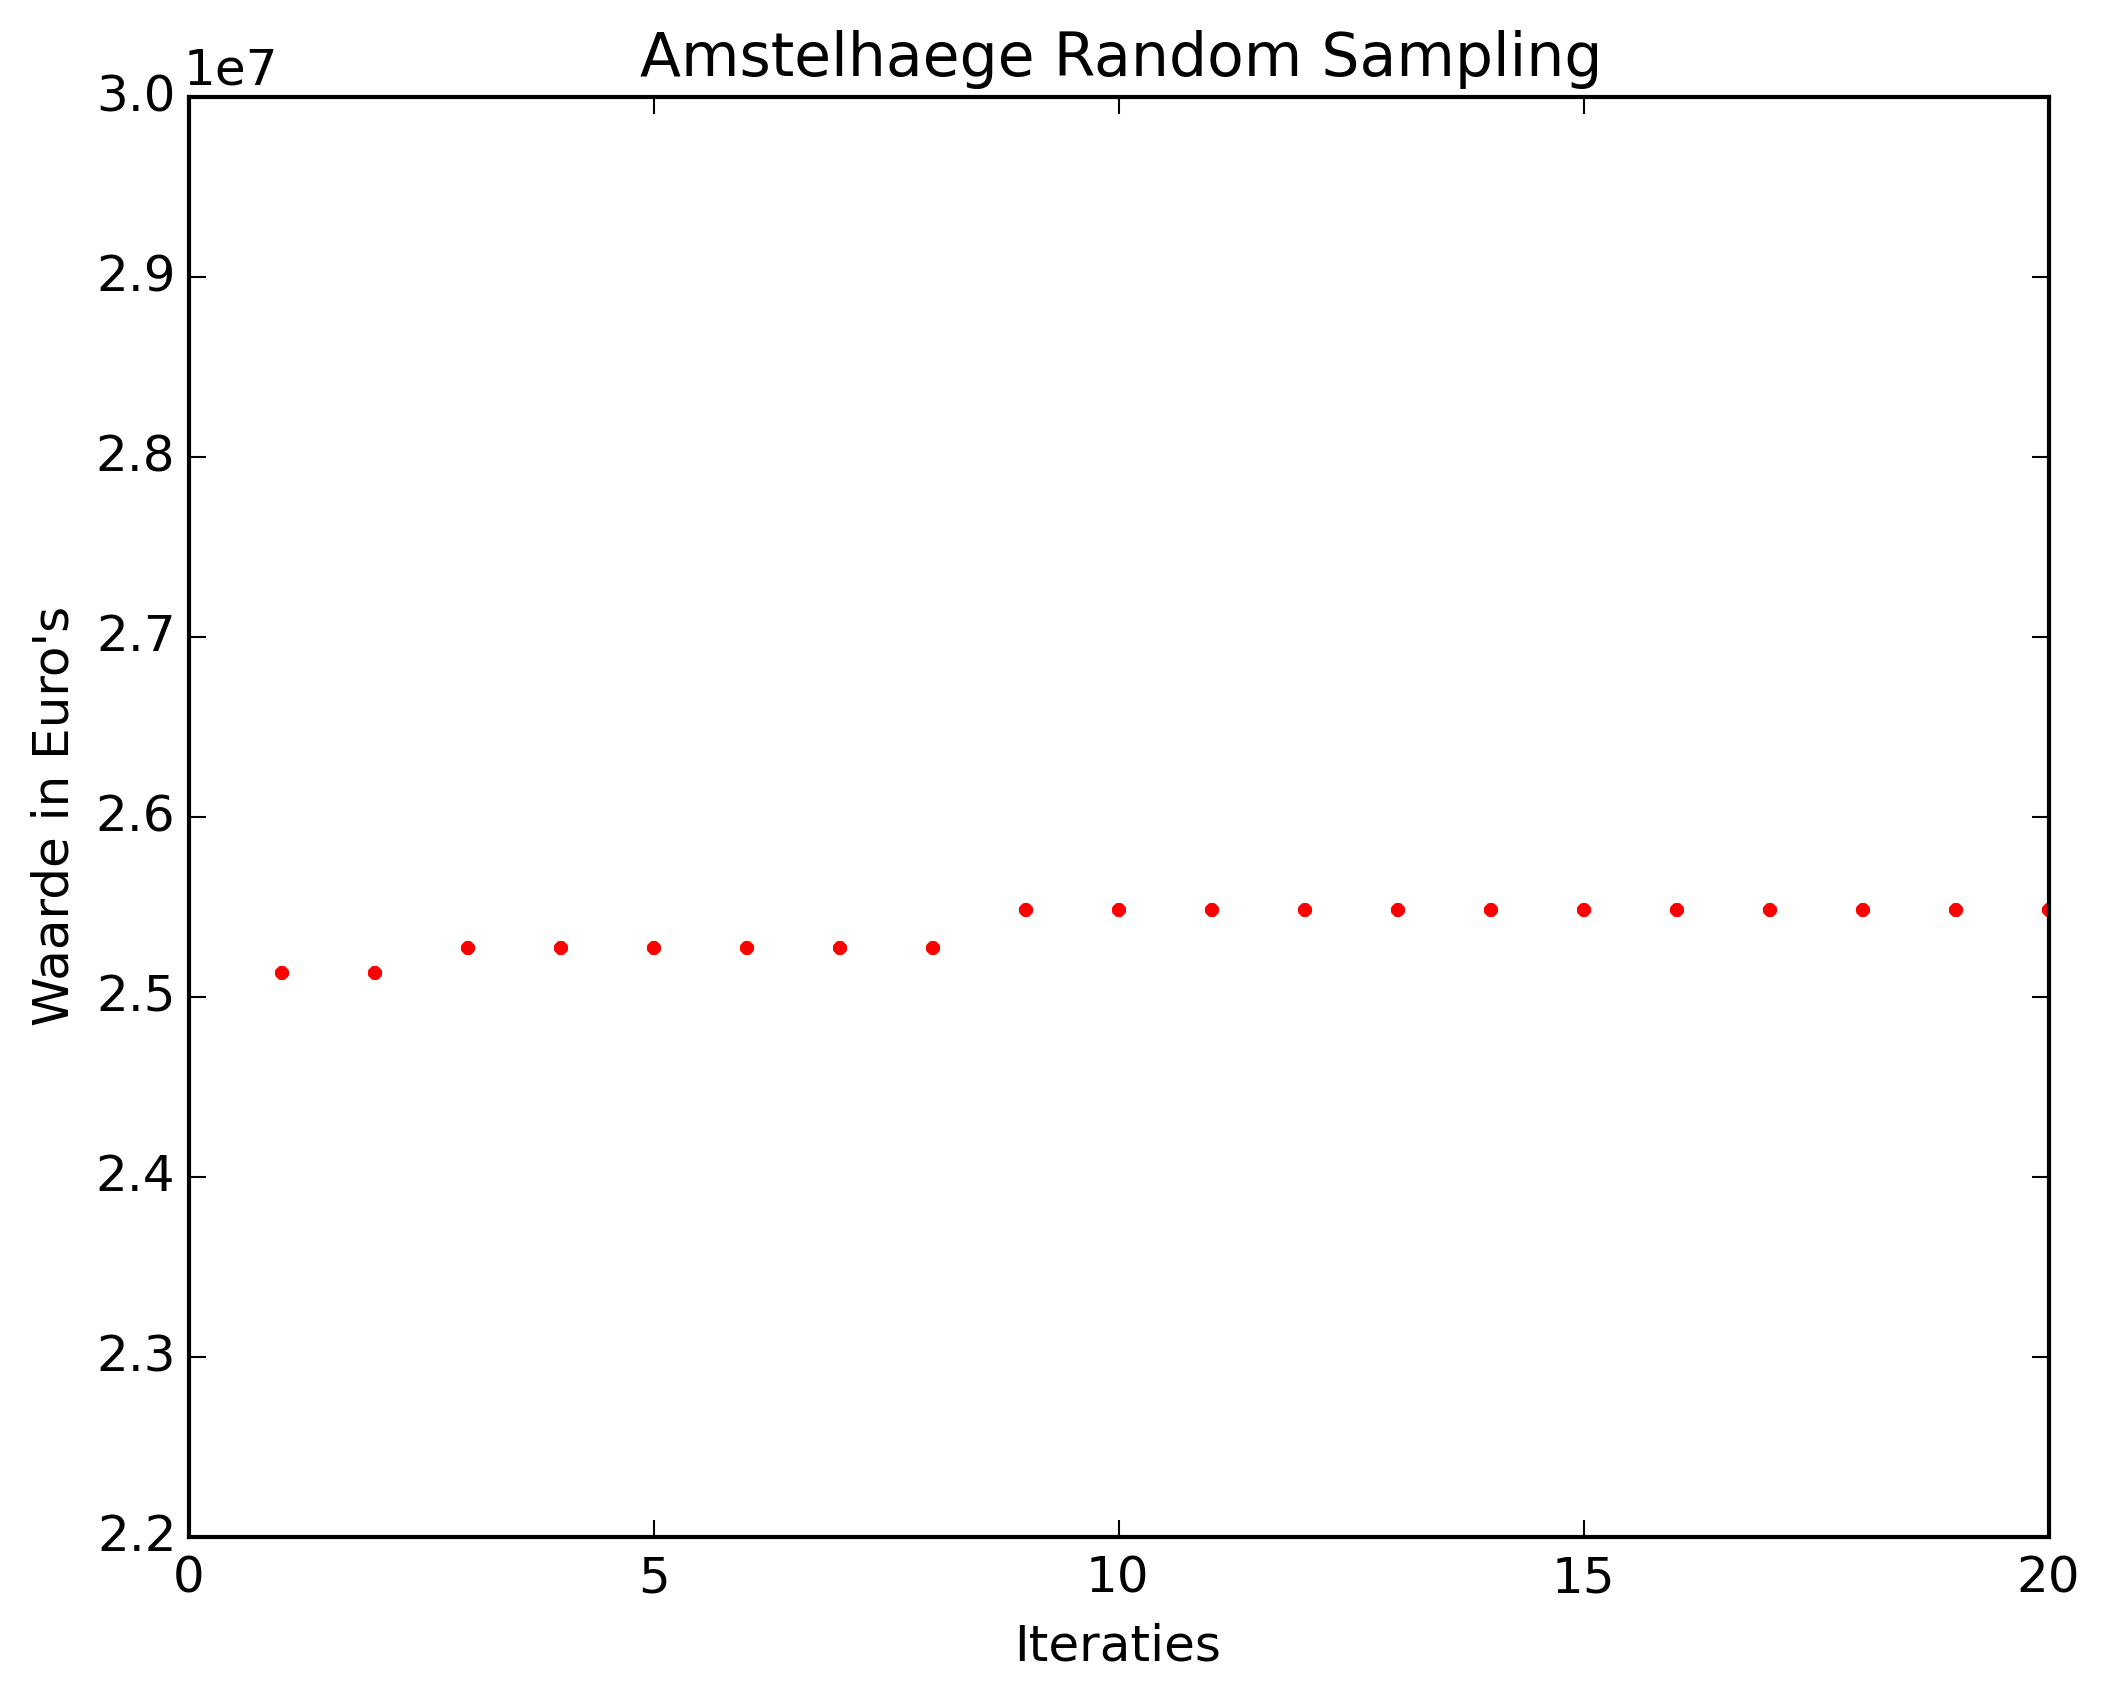
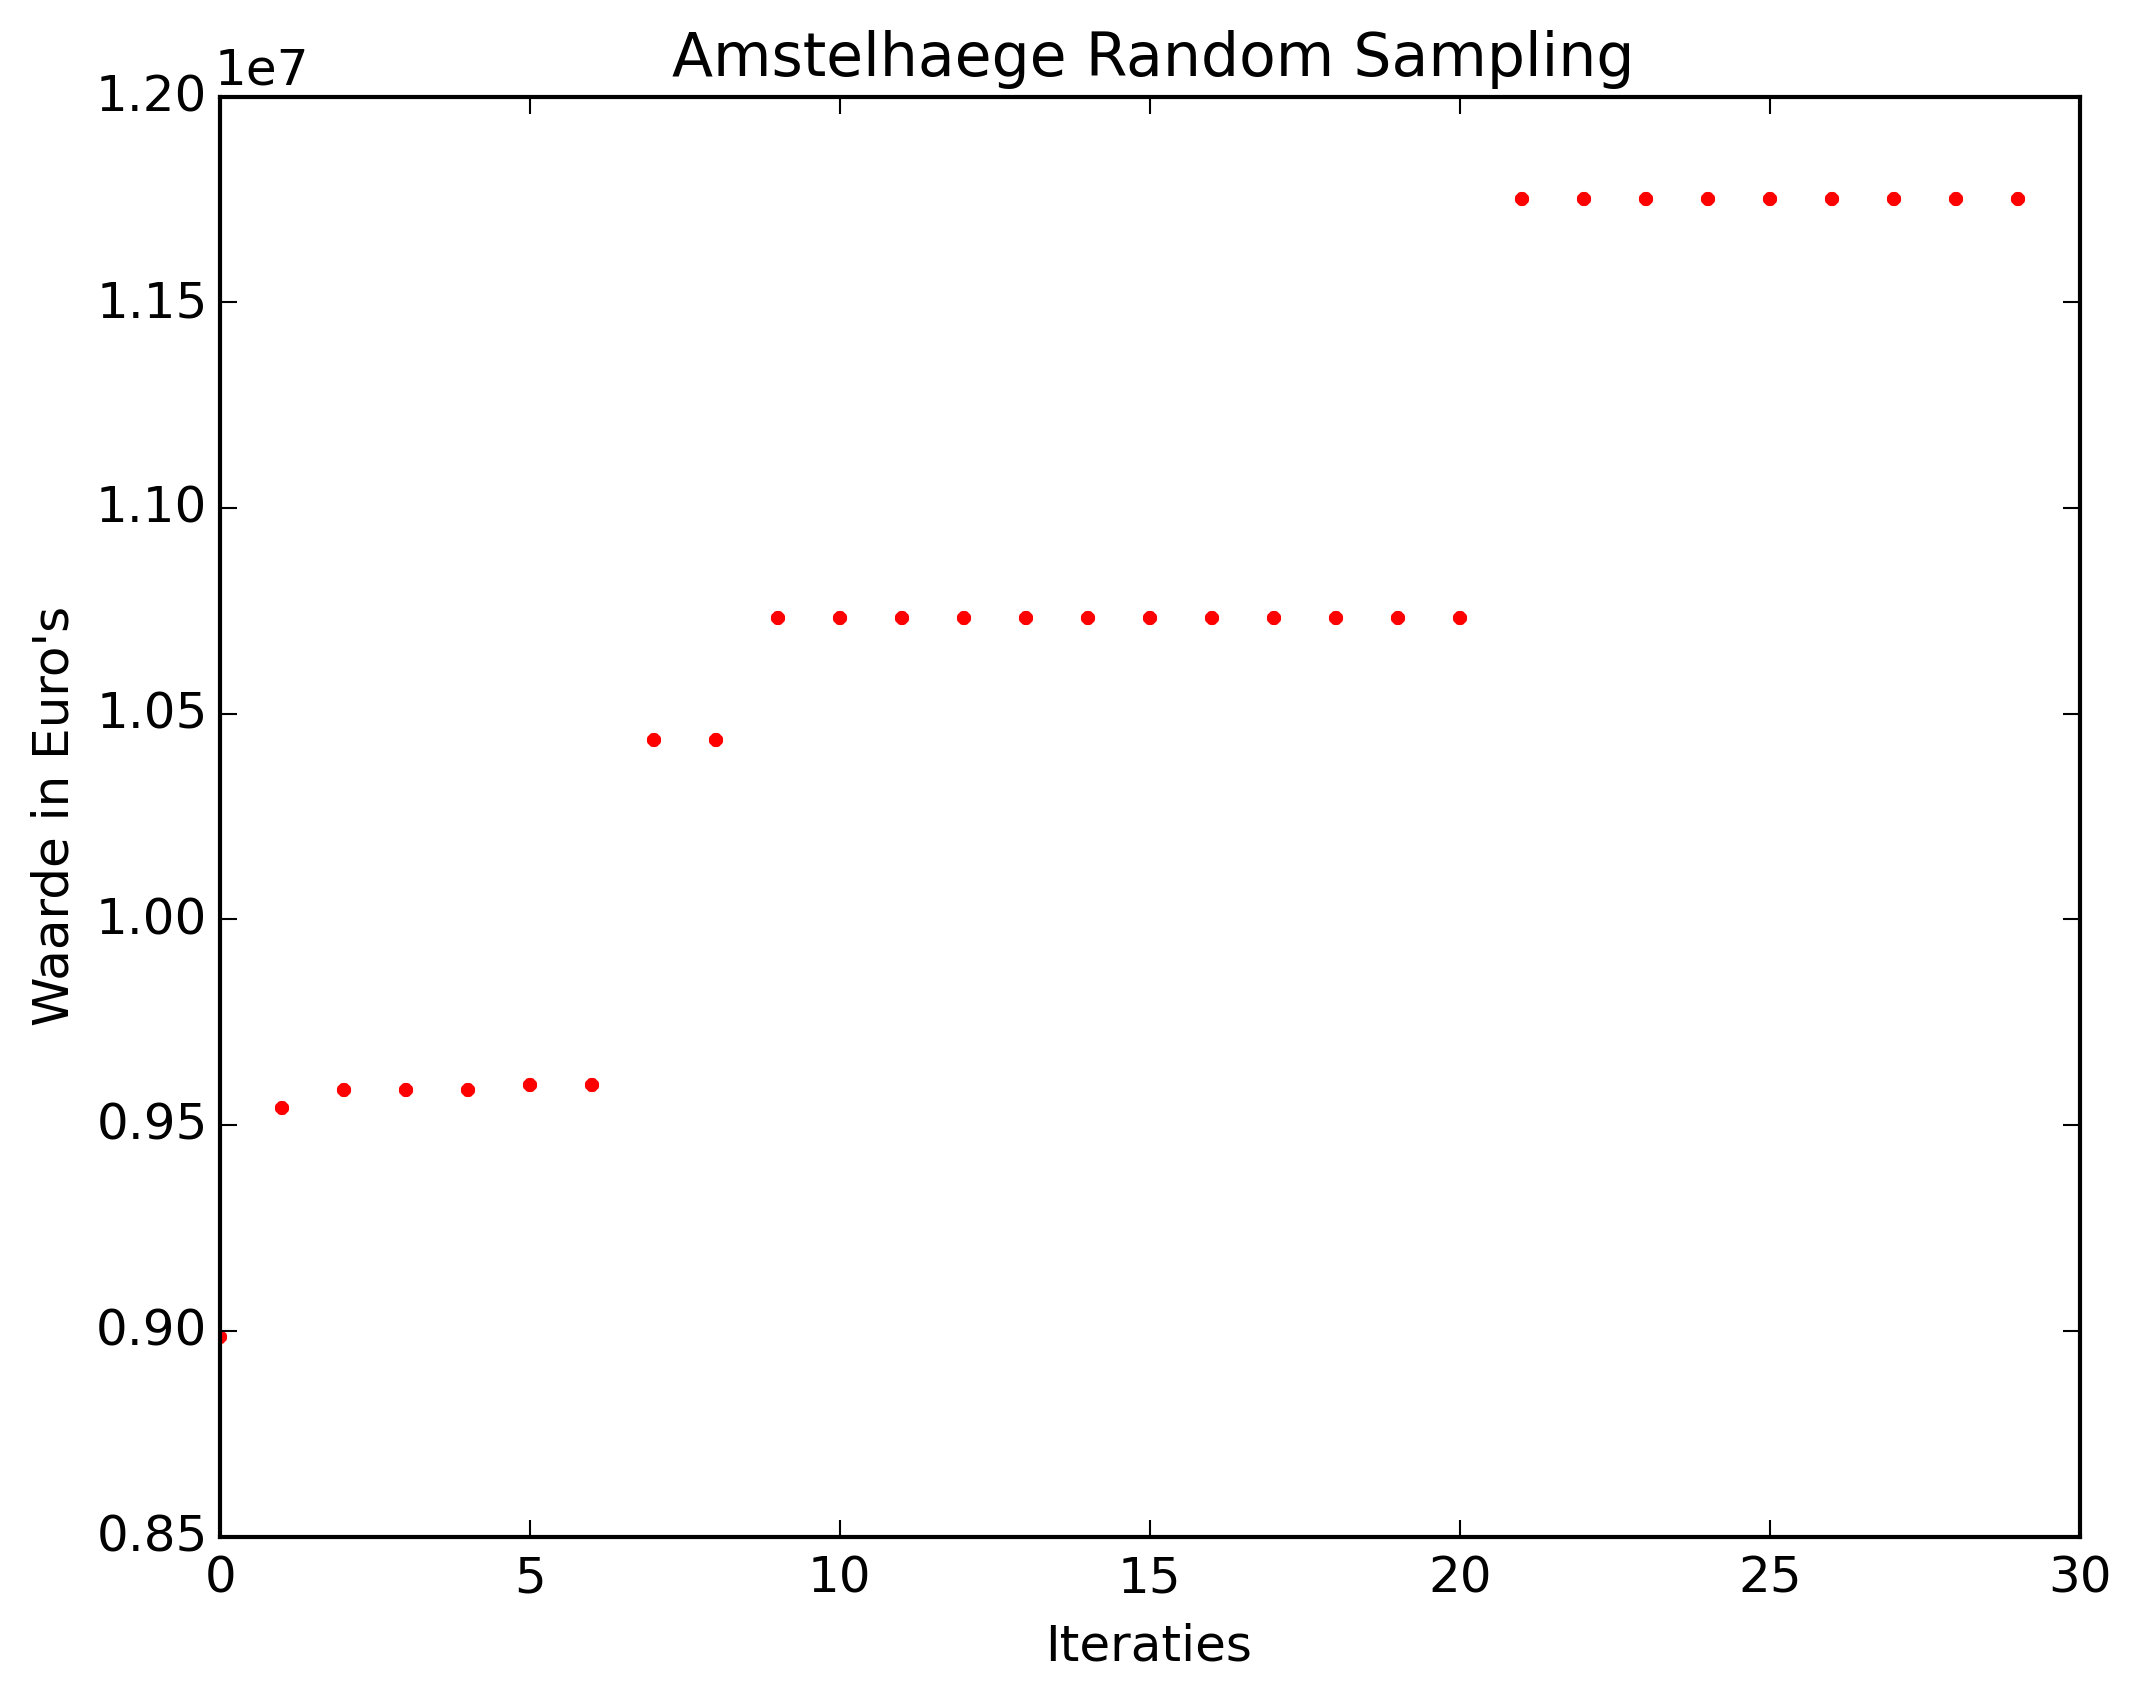
CommandLineArgs + main voor alles!

diff --git a/main.py b/main.py
@@ -3,52 +3,60 @@ from combination import Combination
 import random
 from graph import *
 import matplotlib.pyplot as plt
+import sys
 
-aantalhuizen = 60
+toegestanehuizen = [20,40,60]
+toegestanemethoden = ["randsample", "schuiven", "swappen"]
+aantalhuizen = int(sys.argv[1])
 aantalwater = 4
-maxcombinaties = 20
-plotymin = 22000000
-plotymax = 30000000
 
 uitkomsten = []
 hoogstewaarde = 0
 iteratie = 0
 best = 0
 
+#sys.argv[] -> 1: aantal huizen; 2:methode
+if int(sys.argv[1]) not in toegestanehuizen:
+    print "Incorrect aantal huizen opgegeven. Correct gebruik:"
+    print "python main.py [aantal huizen (20, 40, of 60)] [methode (randsample, schuiven, swappen)]"
+    sys.exit()
+elif str(sys.argv[2]) not in toegestanemethoden:
+    print "Incorrecte methode opgegeven. Correct gebruik:"
+    print "python main.py [aantal huizen (20, 40, of 60)] [methode (randsample, schuiven, swappen)]"
+    sys.exit()
 
-while iteratie < maxcombinaties:
-    error = False
-    combinatie = Combination(aantalhuizen, aantalwater)
-    #combinatie.placeAll()
-    for i in range(len(combinatie.houses)):
-        if combinatie.placeRandom(combinatie.houses[i], i) != True:
-            error = True
-    if error == False:
-        combinatie.evalueer()
-        temp = combinatie.evaluatie
-        if temp[1] > hoogstewaarde:
-            hoogstewaarde = temp[1]
-            best = combinatie
-    uitkomsten.append(hoogstewaarde)
-    if iteratie == 0:
-        combinatie.evalueer()
-        temp = combinatie.evaluatie
-        if temp[1] > hoogstewaarde:
-            hoogstewaarde = temp[1]
-            best = combinatie
-        plt.xlabel('Iteraties')
-        plt.ylabel('Waarde in Euro\'s')
-        plt.title('Amstelhaege Random Sampling')
-        plt.axis((0,maxcombinaties,plotymin,plotymax))  
-        plt.ion()
-        plotymin = hoogstewaarde
-        plt.show()
-    iteratie += 1
-    plt.plot(iteratie, hoogstewaarde, '.-r')
-    plt.draw()
-    plt.show()
-    plt.savefig('graph.png', dpi=300, bbox_inches='tight')
+# bouwen grafiek
+plt.xlabel('Iteraties')
+plt.ylabel('Waarde in Euro\'s')
+plt.ion()
+plt.show()
 
-mapMaken(best.houses)
-best.evalueer()
-best.printToCSV()
+if sys.argv[2] == "randsample":
+    plt.title('Amstelhaege Random Sampling')
+    while True:
+        error = False
+        combinatie = Combination(aantalhuizen, aantalwater)
+        for i in range(len(combinatie.houses)):
+            if combinatie.placeRandom(combinatie.houses[i], i) != True:
+                error = True
+        if error == False:
+            combinatie.evalueer()
+            temp = combinatie.evaluatie
+            if temp[1] > hoogstewaarde:
+                hoogstewaarde = temp[1]
+                best = combinatie
+                #mapMaken(best.houses)
+                best.evalueer()
+                best.printToCSV()
+        uitkomsten.append(hoogstewaarde)
+        plt.plot(iteratie, hoogstewaarde, '.-r')
+        plt.draw()
+        plt.savefig('graph.png', dpi=300, bbox_inches='tight')
+        iteratie += 1
+
+elif str(sys.argv[2]) == "schuiven":
+    #schuifcode
+    pass
+elif str(sys.argv[2]) == "swappen":
+    #swapcode
+    pass

diff --git a/classes.py b/classes.py
@@ -84,10 +84,10 @@ class Point(object):
 
 class Map(object):
     def __init__(self):
-                self.data = dict()
+                #self.data = dict()
                 self.length = 300
                 self.width = 320
-                self.initializeMap()
+                #self.initializeMap()
 
     def initializeMap(self):
         for x in range(self.length):

diff --git a/graph.py b/graph.py
@@ -20,12 +20,3 @@ def mapMaken(huizen):
 
 	plt.gca().invert_yaxis()
 	fig1.savefig('map.png', dpi=300, bbox_inches='tight')
-
-def graphMaken(uitkomsten):
-	fig1 = plt.figure()
-	plt.plot(uitkomsten)
-	plt.ylabel('Waarde in Euro\'s')
-	plt.xlabel('Iteratie')
-
-	plt.show()
-	fig1.savefig('graph.png', dpi=300, bbox_inches='tight')

diff --git a/schuiven.py b/schuiven.py
@@ -6,8 +6,6 @@ import matplotlib.pyplot as plt
 
 attempts = 0
 maxattempts = 100
-aantalhuizen = 60
-aantalwater = 4
 
 # maak een random beginsituatie
 error = True
